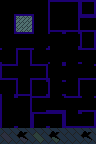
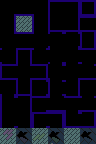
asdfghjkl

diff --git a/src/gamescreen/Game.java b/src/gamescreen/Game.java
@@ -122,7 +122,7 @@ public class Game implements GameScreen {
 		if (InputHandler.KEY_ACTION2_PRESSED && !spaceHeld){
 
 			//cave = c.generateMap(1280,  720,  4,  0.5f);
-			cam.setLevel(0, 0, w.generateWorld(64, 64));
+			cam.setLevel(0, 0, c.createLevel(64, 64, 3, 0.5f));
 			spaceHeld = true;
 
 		} else if (!InputHandler.KEY_ACTION2_PRESSED){

diff --git a/src/level/worldgen/TileMapper.java b/src/level/worldgen/TileMapper.java
@@ -13,7 +13,7 @@ public class TileMapper {
 		
 		if (!map[y][x]){
 			
-			switch (r.nextInt(1000000)){
+			switch (r.nextInt(8)){
 			
 				case 0:
 					t = new Tile(48);
